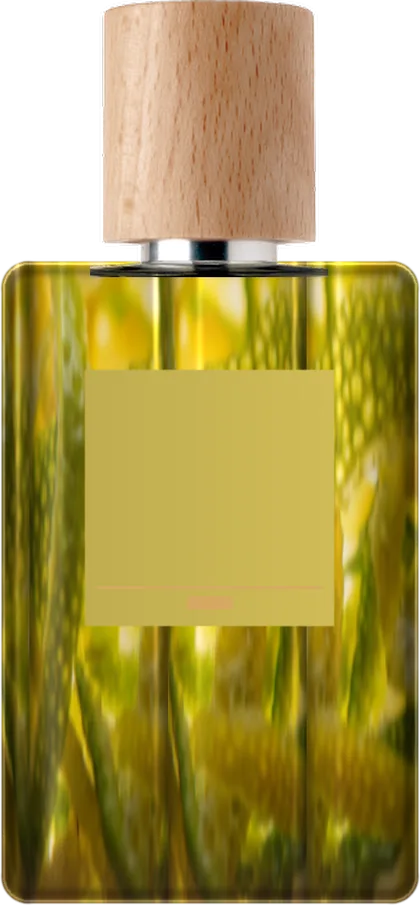
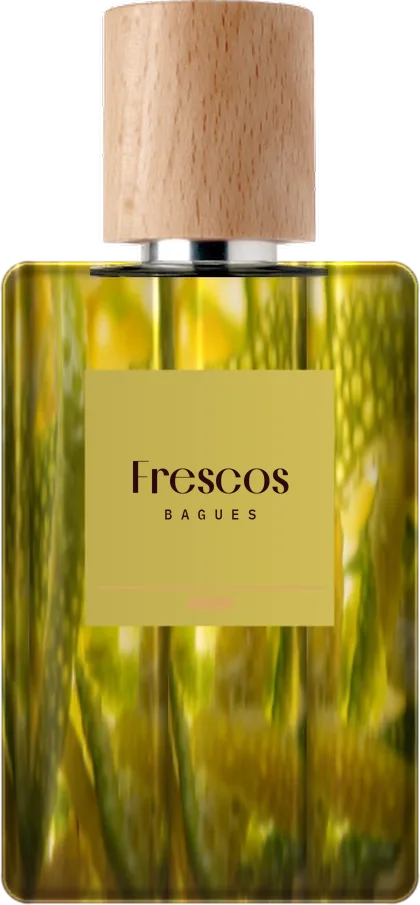
El nombre de cada familia en la etiqueta de su frasco
Decisión de Sebas (23/10): la etiqueta vacía parecía sin terminar. Ahora dice
Frescos, Florales, Dulces, Amaderados o Ámbar en Melodrama, con BAGUES
debajo, en tinta o crema según cuál contraste más con el color de la
etiqueta (de 4,6 a 8,8 a 1; Dulces, de tono medio, lleva un halo corto que la
despega). scripts/rediseno/etiquetas_familias.py lo rehace desde los frascos
sin texto, que quedan versionados en familias_sin_nombre/.

Claude-Session: https://claude.ai/code/session_01W3HPvfphTim1H9DiXKpgmc

Changed region(s): [[0.3714, 0.495, 0.681, 0.5878], [0.3095, 0.495, 0.3714, 0.5569], [0.3714, 0.5569, 0.4024, 0.5878]]

diff --git a/scripts/rediseno/etiquetas_familias.py b/scripts/rediseno/etiquetas_familias.py
@@ -1,0 +1,94 @@
+#!/usr/bin/env python3
+"""
+El nombre de la familia en la etiqueta del frasco de "¿Qué te gusta oler?"
+(decisión de Sebas, 23/10/2026).
+
+    python3 scripts/rediseno/etiquetas_familias.py
+
+Lee los frascos sin texto de scripts/rediseno/familias_sin_nombre/ (los mismos
+que hornea hornear_piezas.py familias_color) y escribe public/familias/ con el
+nombre en Melodrama y "BAGUES" debajo, como una etiqueta de verdad. Se puede
+correr las veces que haga falta: siempre parte de los frascos sin texto.
+
+El texto se dibuja aparte, al doble de tamaño, y se achica para cada ancho
+(240 y 420): el frasco no se re-muestrea, solo la letra. El color sale de
+medir el contraste contra la etiqueta: tinta o crema, el que contraste más
+(4,5:1 o más en todas).
+"""
+import io, os
+import numpy as np
+from PIL import Image, ImageDraw, ImageFilter, ImageFont
+from fontTools.ttLib import TTFont
+
+RAIZ = os.path.abspath(os.path.join(os.path.dirname(__file__), '..', '..'))
+FUENTE_DIR = os.path.join(os.path.dirname(__file__), 'familias_sin_nombre')
+SALIDA = os.path.join(RAIZ, 'public', 'familias')
+NOMBRES = {'citricos': 'Frescos', 'florales': 'Florales', 'dulces': 'Dulces', 'amaderados': 'Amaderados', 'ambar': 'Ámbar'}
+TINTA, CREMA = (42, 10, 14), (250, 239, 234)
+# La etiqueta en el frasco de 420 px (sale de mascara_frasco y la etiqueta de
+# textura_en_frasco en hornear_piezas.py: 20 % a 80 % del ancho, 17 % a 57 %
+# del alto del cuerpo). Medida y comprobada sobre los cinco.
+ETIQUETA_420 = (86, 374, 334, 630)   # x0, y0, x1, y1
+ZONA_TEXTO = 0.40                    # el nombre, al 40 % del alto de la etiqueta (arriba del filete)
+
+
+def fuente(nombre, tam):
+    f = TTFont(os.path.join(RAIZ, 'public', 'fonts', nombre)); f.flavor = None
+    b = io.BytesIO(); f.save(b); b.seek(0)
+    return ImageFont.truetype(b, tam)
+
+
+def luminancia(rgb):
+    c = np.array(rgb, np.float64) / 255
+    c = np.where(c <= 0.04045, c / 12.92, ((c + 0.055) / 1.055) ** 2.4)
+    return 0.2126 * c[0] + 0.7152 * c[1] + 0.0722 * c[2]
+
+
+def contraste(a, b):
+    la, lb = sorted((luminancia(a), luminancia(b)), reverse=True)
+    return (la + 0.05) / (lb + 0.05)
+
+
+def capa_texto(nombre, color, escala, sombra=False):
+    """El texto solo, en una capa transparente del tamaño del frasco de 420 x escala."""
+    x0, y0, x1, y1 = [v * escala for v in ETIQUETA_420]
+    ancho = x1 - x0
+    capa = Image.new('RGBA', (420 * escala, 905 * escala), (0, 0, 0, 0))
+    d = ImageDraw.Draw(capa)
+    tam = 46 * escala
+    while tam > 10:
+        f = fuente('melodrama-600.woff2', tam)
+        if d.textlength(nombre, font=f) <= ancho * 0.8: break
+        tam -= 1
+    cy = y0 + (y1 - y0) * ZONA_TEXTO
+    d.text(((x0 + x1) / 2, cy), nombre, font=f, fill=color + (255,), anchor='mm')
+    sub = fuente('plexmono-500.woff2', 14 * escala)
+    d.text(((x0 + x1) / 2, cy + tam * 0.82), 'B A G U E S', font=sub, fill=color + (235,), anchor='mm')
+    if sombra:
+        # Etiqueta de tono medio (dulces): ni tinta ni crema llegan a 4,5:1
+        # solos. Un halo oscuro muy corto detras de la letra crema la despega
+        # sin que se vea como sombra.
+        alfa = capa.getchannel('A').filter(ImageFilter.GaussianBlur(1.6 * escala))
+        halo = Image.new('RGBA', capa.size, TINTA + (0,)); halo.putalpha(alfa.point(lambda v: int(v * 0.75)))
+        capa = Image.alpha_composite(halo, capa)
+    return capa
+
+
+def main():
+    os.makedirs(SALIDA, exist_ok=True)
+    for archivo, nombre in NOMBRES.items():
+        base420 = Image.open(os.path.join(FUENTE_DIR, f'{archivo}-420.webp')).convert('RGBA')
+        x0, y0, x1, y1 = ETIQUETA_420
+        papel = np.array(base420)[y0 + 20:int(y0 + (y1 - y0) * 0.6), x0 + 20:x1 - 20, :3].reshape(-1, 3).mean(0)
+        color = max((TINTA, CREMA), key=lambda c: contraste(c, papel))
+        ratio = contraste(color, papel)
+        grande = capa_texto(nombre, color, 2, sombra=ratio < 4.5)
+        for ancho in (240, 420):
+            base = Image.open(os.path.join(FUENTE_DIR, f'{archivo}-{ancho}.webp')).convert('RGBA')
+            texto = grande.resize(base.size, Image.LANCZOS)
+            Image.alpha_composite(base, texto).save(os.path.join(SALIDA, f'{archivo}-{ancho}.webp'), quality=86, method=6)
+        print(f'{archivo:11} {nombre:11} {"tinta" if color == TINTA else "crema"} {ratio:.1f}:1')
+
+
+if __name__ == '__main__':
+    main()
